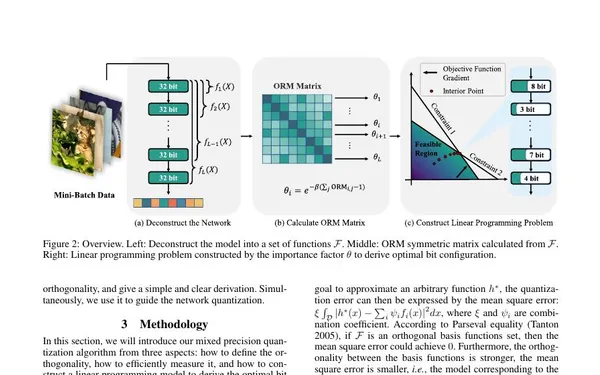
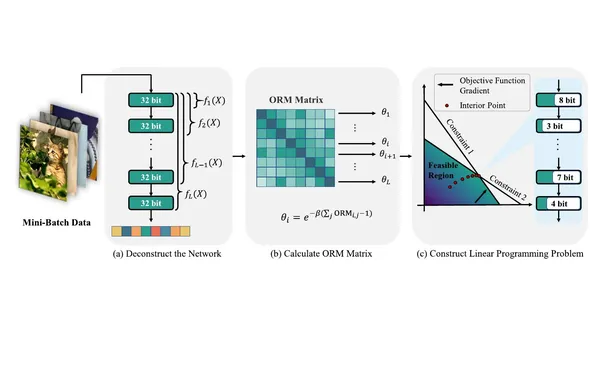
Make the public profile reflect current research standing
Update the current role to Research Fellow at MMLab@NTU and S-Lab, identify the collaboration with Prof. Chen Change Loy, and remove project-level claims from the ByteDance timeline. Link the verified reviewer recognitions and academic identities, replace paper-page crops with original arXiv framework artwork, and add code repositories explicitly declared by paper sources.

Constraint: Publish only verified academic and repository links
Rejected: Infer missing code repositories from title similarity | source ownership could not be established
Rejected: Commit arXiv source packages | 39 MB of reproducibility inputs are unnecessary for the static site
Confidence: high
Scope-risk: moderate
Reversibility: clean
Directive: Keep the current role phrased as Research Fellow; add publication Code links only when a paper source or official repository proves ownership
Tested: HTML validation, JavaScript syntax, 13-paper and 13-thumbnail assertions, eight verified code-link assertions, reviewer URL responses, desktop/mobile screenshots, visual verdict 93/100
Not-tested: Automated Google Scholar responses due intermittent network blocking; Scholar URLs are direct profiles or explicit searches

diff --git a/index.html b/index.html
@@ -58,7 +58,7 @@
         <div class="hero-copy">
           <p class="eyebrow">Efficient AI Researcher</p>
           <h1>Yuexiao Ma</h1>
-          <p class="hero-role">Postdoctoral Researcher at NTU MMLab · Ph.D. at Xiamen University</p>
+          <p class="hero-role">Research Fellow at MMLab@NTU, S-Lab · Ph.D. at Xiamen University</p>
           <p class="hero-intro">I make large generative and vision models faster, smaller, and more practical. My work spans low-bit quantization, model compression, and efficient video generation.</p>
 
           <div class="hero-links" role="group" aria-label="Profile links">
@@ -104,13 +104,13 @@
           <p>About</p>
         </div>
         <div class="about-copy">
-          <p class="lead">I am a postdoctoral researcher at Nanyang Technological University's MMLab. I received my Ph.D. in Intelligent Science and Technology from Xiamen University, advised by Prof. Rongrong Ji and Assoc. Prof. Xiawu Zheng.</p>
+          <p class="lead">I am a Research Fellow at <a href="https://scholar.google.com/scholar?q=MMLab+NTU" target="_blank" rel="noreferrer">MMLab@NTU</a>, <a href="https://scholar.google.com/scholar?q=S-Lab+NTU" target="_blank" rel="noreferrer">S-Lab</a>, working with <a href="https://scholar.google.com/scholar?q=Chen+Change+Loy" target="_blank" rel="noreferrer">Prof. Chen Change Loy (Cavan Loy)</a>. I received my Ph.D. in Intelligent Science and Technology from Xiamen University, advised by <a href="https://scholar.google.com/citations?user=lRSD7PQAAAAJ" target="_blank" rel="noreferrer">Prof. Rongrong Ji</a> and <a href="https://scholar.google.com/citations?user=jBgXocYAAAAJ" target="_blank" rel="noreferrer">Assoc. Prof. Xiawu Zheng</a>.</p>
           <p>Previously, I spent more than three years with ByteDance's quantization team, translating compression research into low-cost, low-latency inference for generative and foundation models. My research appears at ICLR, ICML, CVPR, AAAI, ACL, and IJCV.</p>
         </div>
         <aside class="at-a-glance" aria-label="At a glance">
           <p class="aside-title">At a glance</p>
           <dl>
-            <div><dt>Current</dt><dd>NTU MMLab</dd></div>
+            <div><dt>Current</dt><dd>MMLab@NTU, S-Lab</dd></div>
             <div><dt>Focus</dt><dd>Efficient AI</dd></div>
             <div><dt>Industry</dt><dd>ByteDance</dd></div>
             <div><dt>Based in</dt><dd>Singapore</dd></div>
@@ -172,11 +172,11 @@
         <div class="publication-list">
           <article class="publication-item featured">
             <a class="publication-thumb" href="https://arxiv.org/pdf/2602.10825" target="_blank" rel="noreferrer"><img src="assets/papers/thumbs/flow-cache.webp" alt="Overview of Flow Caching"></a>
-            <div class="publication-main"><div class="publication-meta"><span>ICLR 2026</span><span>Video generation</span></div><h3>Flow Caching for Autoregressive Video Generation</h3><p class="publication-authors"><strong>Yuexiao Ma<sup>*</sup></strong>, Xuzhe Zheng<sup>*</sup>, Jing Xu<sup>*</sup>, Xiwei Xu, Feng Ling, Xiawu Zheng, Huafeng Kuang, Huixia Li, Xing Wang, Xuefeng Xiao, Fei Chao, Rongrong Ji<sup>†</sup></p><p class="publication-note">Flow-aware feature reuse accelerates autoregressive video generation while preserving temporal quality.</p><div class="publication-links"><a href="https://arxiv.org/pdf/2602.10825" target="_blank" rel="noreferrer"><i data-lucide="file-text"></i>Paper</a></div></div>
+            <div class="publication-main"><div class="publication-meta"><span>ICLR 2026</span><span>Video generation</span></div><h3>Flow Caching for Autoregressive Video Generation</h3><p class="publication-authors"><strong>Yuexiao Ma<sup>*</sup></strong>, Xuzhe Zheng<sup>*</sup>, Jing Xu<sup>*</sup>, Xiwei Xu, Feng Ling, Xiawu Zheng, Huafeng Kuang, Huixia Li, Xing Wang, Xuefeng Xiao, Fei Chao, Rongrong Ji<sup>†</sup></p><p class="publication-note">Flow-aware feature reuse accelerates autoregressive video generation while preserving temporal quality.</p><div class="publication-links"><a href="https://arxiv.org/pdf/2602.10825" target="_blank" rel="noreferrer"><i data-lucide="file-text"></i>Paper</a><a href="https://github.com/mikeallen39/FlowCache" target="_blank" rel="noreferrer"><i data-lucide="github"></i>Code</a></div></div>
           </article>
           <article class="publication-item">
             <a class="publication-thumb" href="https://arxiv.org/pdf/2605.01725" target="_blank" rel="noreferrer"><img src="assets/papers/thumbs/motion-cache.webp" alt="Overview of MotionCache"></a>
-            <div class="publication-main"><div class="publication-meta"><span>ICML 2026</span><span>Video generation</span></div><h3>Motion-Aware Caching for Efficient Autoregressive Video Generation</h3><p class="publication-authors">Jing Xu<sup>*</sup>, <strong>Yuexiao Ma<sup>*</sup></strong>, Xuzhe Zheng, Xing Wang, Shiwei Liu, Chenqian Yan, Xiawu Zheng, Rongrong Ji, Fei Chao, Songwei Liu<sup>†</sup></p><p class="publication-note">A coarse-to-fine cache policy uses inter-frame motion to allocate computation where it matters.</p><div class="publication-links"><a href="https://arxiv.org/pdf/2605.01725" target="_blank" rel="noreferrer"><i data-lucide="file-text"></i>Paper</a></div></div>
+            <div class="publication-main"><div class="publication-meta"><span>ICML 2026</span><span>Video generation</span></div><h3>Motion-Aware Caching for Efficient Autoregressive Video Generation</h3><p class="publication-authors">Jing Xu<sup>*</sup>, <strong>Yuexiao Ma<sup>*</sup></strong>, Xuzhe Zheng, Xing Wang, Shiwei Liu, Chenqian Yan, Xiawu Zheng, Rongrong Ji, Fei Chao, Songwei Liu<sup>†</sup></p><p class="publication-note">A coarse-to-fine cache policy uses inter-frame motion to allocate computation where it matters.</p><div class="publication-links"><a href="https://arxiv.org/pdf/2605.01725" target="_blank" rel="noreferrer"><i data-lucide="file-text"></i>Paper</a><a href="https://github.com/MAC-AutoML/MotionCache" target="_blank" rel="noreferrer"><i data-lucide="github"></i>Code</a></div></div>
           </article>
           <article class="publication-item">
             <a class="publication-thumb" href="https://arxiv.org/pdf/2508.10016" target="_blank" rel="noreferrer"><img src="assets/papers/thumbs/mllm-orchestration.webp" alt="Overview of training-free multimodal orchestration"></a>
@@ -235,8 +235,9 @@
             <div class="timeline-date">Present</div>
             <div class="timeline-content">
               <p class="timeline-kind">Research</p>
-              <h3>Postdoctoral Researcher</h3>
-              <p>Nanyang Technological University · MMLab</p>
+              <h3>Research Fellow</h3>
+              <p>MMLab@NTU · S-Lab</p>
+              <p class="timeline-advisors">Working with Prof. Chen Change Loy (Cavan Loy)</p>
             </div>
           </article>
           <article class="timeline-item">
@@ -245,10 +246,6 @@
               <p class="timeline-kind">Industry</p>
               <h3>Research Intern · Quantization Team</h3>
               <p>ByteDance Data · Beijing</p>
-              <ul>
-                <li>Accelerated Seedance generation models with SplitQuant, enabling lossless W4A4 image generation and up to 3× operator speedup.</li>
-                <li>Co-developed AffineQuant and outlier-aware slicing for efficient LLM and vision inference.</li>
-              </ul>
             </div>
           </article>
           <article class="timeline-item">
@@ -298,7 +295,7 @@
             <div>
               <p class="service-kicker">Recognition</p>
               <h3>Top Reviewer</h3>
-              <p>NeurIPS 2025 · ICLR 2026 · ICML 2026</p>
+              <p class="reviewer-links"><a href="https://neurips.cc/Conferences/2025/ProgramCommittee" target="_blank" rel="noreferrer">NeurIPS 2025</a> · <a href="https://iclr.cc/Conferences/2026/ProgramCommittee#top-200-reviewers" target="_blank" rel="noreferrer">ICLR 2026</a> · <a href="https://icml.cc/Conferences/2026/ProgramCommittee#gold" target="_blank" rel="noreferrer">ICML 2026</a></p>
             </div>
           </div>
         </div>
@@ -316,7 +313,6 @@
 
     <footer>
       <p>© <span id="year">2026</span> Yuexiao Ma</p>
-      <p>Designed and built for GitHub Pages.</p>
       <p class="credit">Layout informed by <a href="https://academicpages.github.io/" target="_blank" rel="noreferrer">Academic Pages</a> and <a href="https://github.com/alshedivat/al-folio" target="_blank" rel="noreferrer">al-folio</a>; visual system is original.</p>
     </footer>
   </body>

diff --git a/styles.css b/styles.css
@@ -405,6 +405,16 @@ img {
   line-height: 1.4;
 }
 
+.about-copy .lead a {
+  text-decoration-color: var(--line-strong);
+  text-decoration-thickness: 1px;
+  text-underline-offset: 3px;
+}
+
+.about-copy .lead a:hover {
+  color: var(--accent);
+}
+
 .about-copy > p:not(.lead) {
   max-width: 740px;
   margin: 18px 0 0;
@@ -767,6 +777,15 @@ img {
   color: var(--muted);
 }
 
+.reviewer-links a {
+  text-decoration-color: var(--line-strong);
+  text-underline-offset: 3px;
+}
+
+.reviewer-links a:hover {
+  color: var(--accent);
+}
+
 .contact-section {
   width: var(--page);
   margin: 0 auto;
@@ -802,7 +821,7 @@ img {
 
 footer {
   display: grid;
-  grid-template-columns: repeat(3, 1fr);
+  grid-template-columns: 1fr 2fr;
   gap: 24px;
   width: var(--page);
   margin: 0 auto;
@@ -814,10 +833,6 @@ footer {
 
 footer p {
   margin: 0;
-}
-
-footer p:nth-child(2) {
-  text-align: center;
 }
 
 footer .credit {

diff --git a/DESIGN.md b/DESIGN.md
@@ -38,7 +38,7 @@
 - Spacing/layout rhythm: 6px base rhythm with compact 64-80px sections and 18-24px publication rows
 - Shape/radius/elevation: 2-6px radii; thin rules; minimal elevation
 - Motion: Small entrance and hover transitions; fully disabled under reduced motion
-- Imagery/iconography: One compact authentic portrait, paper-owned overview/first-page thumbnails, Lucide icons loaded from a pinned CDN
+- Imagery/iconography: One compact authentic portrait, original overview/framework figures extracted from arXiv source when available, official publication views otherwise, Lucide icons loaded from a pinned CDN
 
 ## Components
 - Existing components to reuse: None; new repository
@@ -79,7 +79,7 @@
 - Test/screenshot expectations: HTML validation, verified paper/code links, responsive browser screenshots at desktop and mobile widths, visual-verdict score of 90+
 
 ## Open questions
-- [ ] Confirm current postdoctoral start date and whether it should replace the Ph.D. entry as the primary role
+- [ ] Confirm the Research Fellow start date for the experience timeline
 - [ ] Confirm whether all 2026 publication statuses are final and public
 - [ ] Add citation counts only if a stable, user-controlled data source becomes available
-- [ ] Replace abstract/first-page thumbnails when official method figures or project pages become available
+- [ ] Replace the remaining non-arXiv first-page thumbnails when official method figures become available
